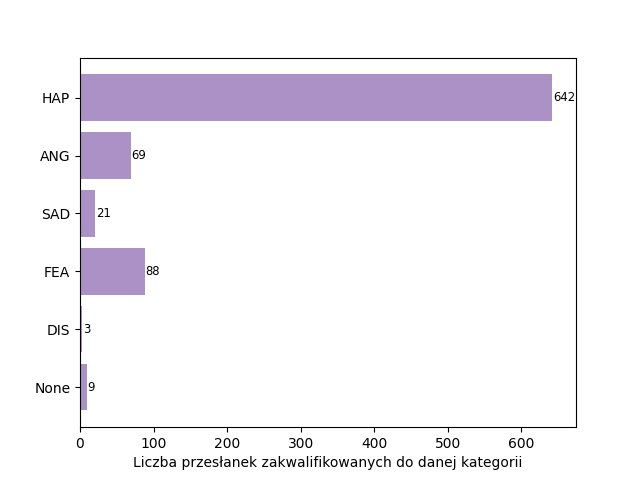
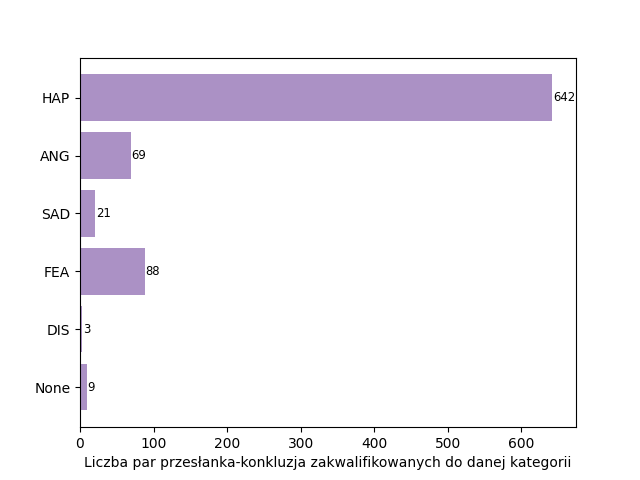
graphs update

Changed region(s): [[0.125, 0.9375, 0.9062, 1.0]]

diff --git a/emotion-analysis.py b/emotion-analysis.py
@@ -176,7 +176,7 @@ for i, v in enumerate(x_axis):
 
 plt.barh(y_axis, x_axis, align='center', color='#AB91C5')
 ax.invert_yaxis() # labels read top-to-bottom
-ax.set_xlabel('Liczba przesłanek zakwalifikowanych do danej kategorii')
+ax.set_xlabel('Liczba par przesłanka-konkluzja zakwalifikowanych do danej kategorii')
 plt.savefig('plots/emo-an.png')
 
 #--------------------------

diff --git a/sentiment-analysis.py b/sentiment-analysis.py
@@ -123,7 +123,7 @@ for i, v in enumerate(x_axis):
 
 plt.barh(y_axis, x_axis, align='center', color='#5FB7E5')
 ax.invert_yaxis() # labels read top-to-bottom
-ax.set_xlabel('Liczba przesłanek zakwalifikowanych do danej kategorii')
+ax.set_xlabel('Liczba par przesłanka-konkluzja zakwalifikowanych do danej kategorii')
 plt.savefig('plots/sen-an.png')
 
 #--------------------------
